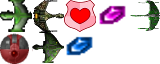
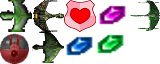
Implementing color double bullets Issue Number:
Description:
    New features:

Benchmarks:
    Developed with the following benchmarks:

Todo:

Changed region(s): [[0.5938, 0.5312, 0.7812, 0.8438]]

diff --git a/Resources/maps/objects.tsx b/Resources/maps/objects.tsx
@@ -43,4 +43,10 @@
       <property name="weapon_type" value="DOUBLE_BLUE"/>
   </properties>
  </tile>
+<tile id="8">
+  <properties>
+      <property name="object_type" value="WeaponObject"/>
+      <property name="weapon_type" value="DOUBLE_GREEN"/>
+  </properties>
+ </tile>
 </tileset>
